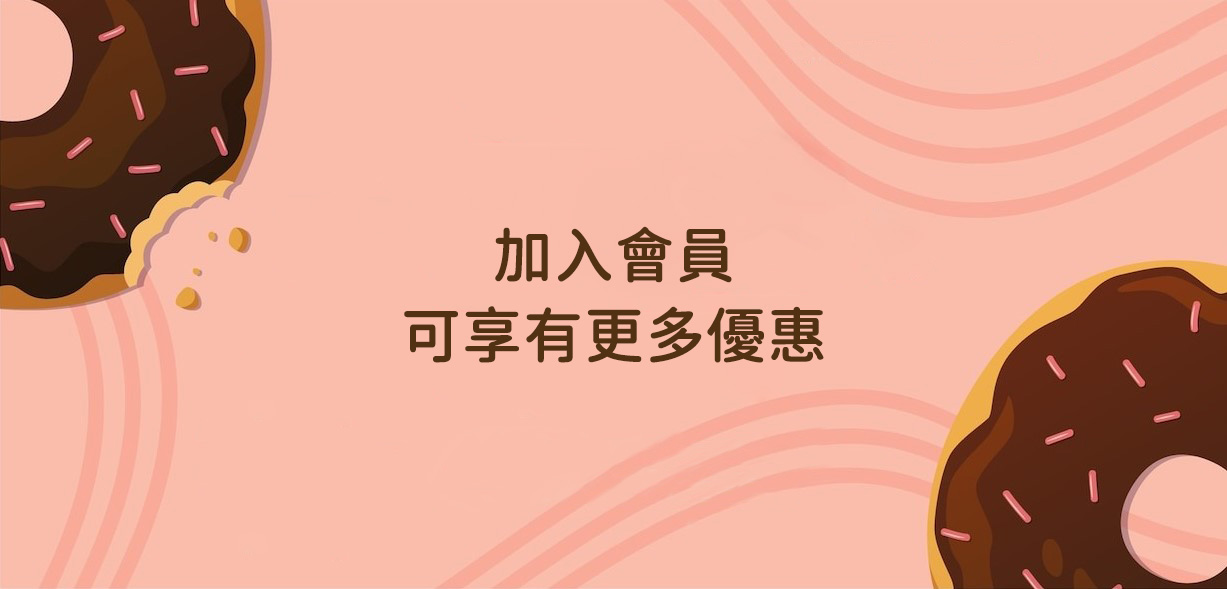
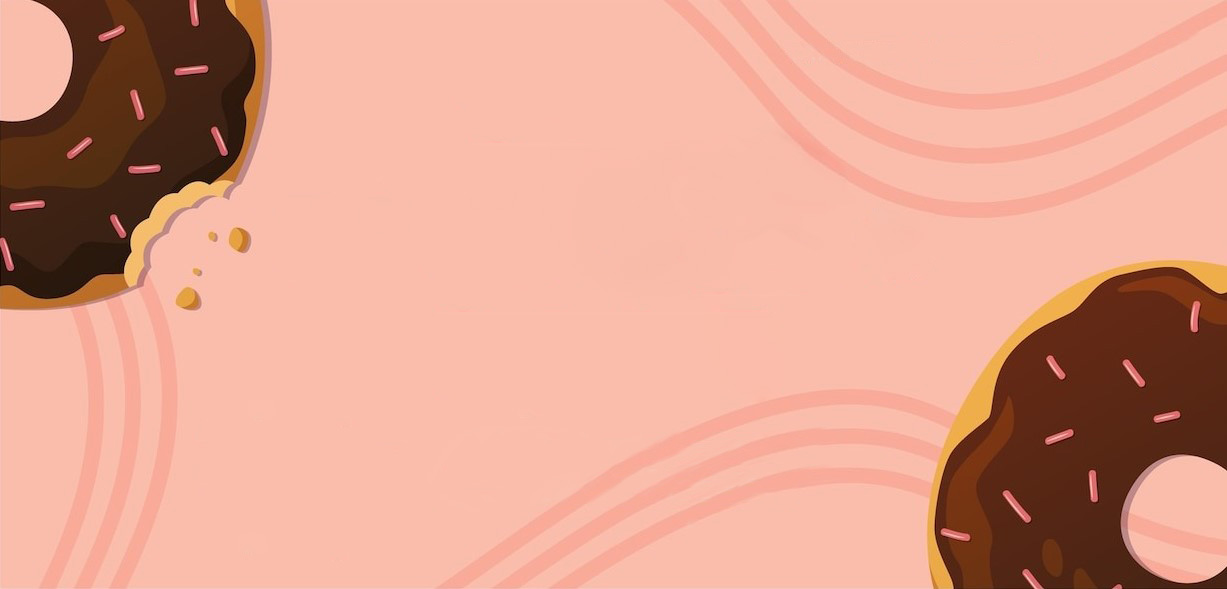
會員專區修改

Changed region(s): [[0.3097, 0.5195, 0.6813, 0.6112], [0.4026, 0.3667, 0.6194, 0.489]]

diff --git a/member_logut.html b/member_logut.html
@@ -18,6 +18,7 @@
         <script src="https://cdnjs.cloudflare.com/ajax/libs/jquery/3.7.1/jquery.min.js" integrity="sha512-v2CJ7UaYy4JwqLDIrZUI/4hqeoQieOmAZNXBeQyjo21dadnwR+8ZaIJVT8EE2iyI61OV8e6M8PP2/4hpQINQ/g==" crossorigin="anonymous" referrerpolicy="no-referrer"></script>
     <link rel="shortcut icon" href="./img/logo.ico" type="image/x-icon">
     <link rel="stylesheet" href="./css/style.css">
+    <link rel="stylesheet" href="./css/rwd.css">
 </head>
 
 <body>
@@ -59,6 +60,7 @@
 
     <main>
         <div class="member-banner">
+            <h2>加入會員<br>可享有更多優惠</h2>
             <a href="./login.html">立即登入以獲取您的會員資訊</a>
         </div>
         <div class="member-level-introduction">
@@ -71,7 +73,7 @@
                         <h3>一般蛋糕&nbsp;&nbsp;VIP&nbsp;I</h3>
                         <ul>
                             <li>會員優惠：無</li>
-                            <li>升級方式：官網、各實體店面加入</li>
+                            <li>升級方式：官網、各實體店面</li>
                             <li>會員期限：無期限</li>
                             <li>生日禮金：無 </li>
                         </ul>
@@ -87,7 +89,7 @@
                         <h3>銀白蛋糕&nbsp;&nbsp;VIP&nbsp;II</h3>
                         <ul>
                             <li>會員優惠：無</li>
-                            <li>升級方式：消費滿 $300 元以上</li>
+                            <li>升級方式：消費滿 $300 元</li>
                             <li>使用通路：官網、各實體店面</li>
                             <li>生日禮金：$100 元購物金</li>
                         </ul>
@@ -103,7 +105,7 @@
                         <h3>黃金蛋糕&nbsp;&nbsp;VIP&nbsp;III</h3>
                         <ul>
                             <li>會員優惠：95 折</li>
-                            <li>升級方式：消費滿$6000元</li>
+                            <li>升級方式：消費滿 $6000 元</li>
                             <li>使用通路：官網、各實體店面</li>
                             <li>會員期限：一年期限 </li>
                             <li>生日禮金：$100 元購物金</li>

diff --git a/css/style.css b/css/style.css
@@ -116,7 +116,7 @@ main{
     /* padding-left: 5vw; */
 }
 .guid-tour-bar-center{
-    width: 1200px;
+    max-width: 1200px;
     height: 100%;
     margin: 0 auto;
     display: flex;
@@ -701,6 +701,17 @@ input#get-new, input#privacy-policy{
     background-position: center center;
     position: relative;
 }
+.member-banner h2{
+    font-size: 48px;
+    font-weight: bold;
+    color: #523112;
+    line-height: 1.5;
+    position: absolute;
+    text-align: center;
+    top: 45%;
+    left: 50%;
+    transform: translate(-50%, -50%);
+}
 .member-banner::before{
     content: '';
     display: block;
@@ -713,7 +724,6 @@ input#get-new, input#privacy-policy{
 }
 .member-banner a{
     display: block;
-    margin: 365px auto 0  ;
     width: 240px;
     height: 48px;
     background-color: #D6C4A5;
@@ -723,7 +733,10 @@ input#get-new, input#privacy-policy{
     line-height: 48px;
     border: 3px solid #0C2557;
     border-radius: 5px;
-    position: relative;
+    position: absolute;
+    bottom: 15%;
+    left: 50%;
+    transform: translateX(-50%);
     z-index: 3;
 }
 .member-level-introduction{
@@ -754,11 +767,14 @@ input#get-new, input#privacy-policy{
     padding: 2rem;
     display: flex;
     align-items: center;
-    justify-content: space-between;
+    /* justify-content: space-between; */
+    justify-content: center;
+    gap: 20px;
     position: relative;
 }
 .memberCard>img{
-    width: 400px;
+    /* width: 400px; */
+    width: calc(100% - 50px);
     position: absolute;
 }
 .memberCard>img:nth-of-type(1){
@@ -777,10 +793,10 @@ input#get-new, input#privacy-policy{
 .cardIntro h3{
     font-size: 22px;
     font-weight: bold;
-    padding: 10px 0;
+    padding: 15px 0 20px 0;
 }
 .cardIntro ul li{
-    margin: 10px 0;
+    margin-bottom: 10px;
 }
 .cardImg{
     flex-basis: 35%;

diff --git a/css/rwd.css b/css/rwd.css
@@ -4,4 +4,78 @@
     .header-wrapper nav {
         display: none;
     }
+
+
+
+
+
+
+    /* 會員專區 */
+    .member-banner{
+        height: 320px;
+    }
+    .member-banner h2{
+        font-size: 32px;
+    }
+    .member-banner a{
+        width: 200px;
+        height: 40px;
+        font-size: 14px;
+        line-height: 40px;
+    }
+    .memberCard{
+        width: 600px;
+        height: 350px;
+        gap: 50px;
+    }
+    .cardIntro h3{
+        padding: 30px 0;
+    }
+    .cardIntro ul li{
+        margin-bottom: 20px;
+    }
+
+
+
 }
+
+
+@media screen and (max-width:430px) {
+    
+
+
+    /* 會員專區 */
+    .member-banner{
+        height: 220px;
+    }
+    .member-banner h2{
+        font-size: 24px;
+    }
+    .member-banner a{
+        width: 180px;
+        height: 32px;
+        font-size: 12px;
+        line-height: 32px;
+    }
+    .member-level-introduction{
+        padding: 30px 0;
+    }
+    .member-level-introduction h1{
+        font-size: 20px;
+        margin-bottom: 30px;
+    }
+    .memberCard{
+        width: 350px;
+        height: 200px;
+        gap: 10px;
+    }
+    .cardIntro h3{
+        padding: 10px 0;
+        font-size: 18px;
+    }
+    .cardIntro ul li{
+        font-size: 12px;
+        margin-bottom: 10px;
+    }
+}
+
